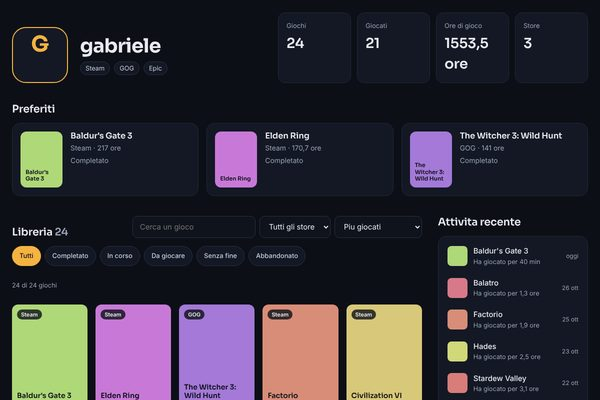
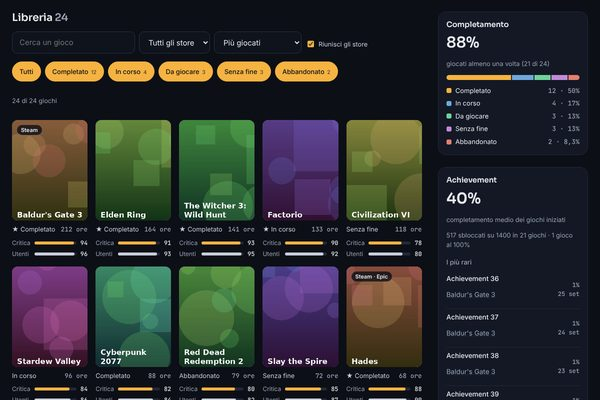
Portfolio: Playshelf aggiornato e Legacy Games Buyout
Playshelf: sincronizzazione nei due sensi, schede, achievement, statistiche,
giochi riuniti fra store e sei lingue; screenshot nuovi. Legacy Games Buyout
con il link al repository su GitHub. Chi sono cita anche Playshelf.

Claude-Session: https://claude.ai/code/session_018F9roNCEfMkSjq1C8nK1uA

diff --git a/src/progetti/de/26-playshelf.md b/src/progetti/de/26-playshelf.md
@@ -12,6 +12,7 @@ images:
 - img/portfolio/full/playshelf/2.jpg
 - img/portfolio/full/playshelf/3.jpg
 - img/portfolio/full/playshelf/4.jpg
+- img/portfolio/full/playshelf/5.jpg
 technologies:
 - TypeScript
 - NestJS, Fastify
@@ -21,8 +22,8 @@ technologies:
 - Docker, GitHub Actions
 ---
 
-Playshelf ist ein Dienst für Nutzer von Playnite, dem Programm, das die Spiele von Steam, GOG, Epic und den anderen Stores in einer einzigen Bibliothek zusammenführt. Ein Plugin, auf jedem PC installiert, schickt die Bibliothek und die gespielten Partien an einen Server, und eine Website zeigt sie gemeinsam an: alle Spiele, aus jedem Store und von jedem Rechner, an einem Ort.
+Playshelf ist ein Dienst für Nutzer von Playnite, dem Programm, das die Spiele von Steam, GOG, Epic und den anderen Stores in einer einzigen Bibliothek zusammenführt. Ein Plugin, auf jedem PC installiert, hält die Bibliothek über einen Server in beide Richtungen synchron: Bewertungen, Status, Kategorien und Tags, die auf einem Rechner geändert werden, kommen Feld für Feld auf den anderen an, mit einer Vorschau und einer Sicherung vor der ersten Synchronisierung. Die Spielzeit wird Sitzung für Sitzung erfasst, so addieren sich die Stunden von zwei PCs, ohne doppelt gezählt zu werden.
 
-Jeder Nutzer hat ein öffentliches Profil im Stil von Steam, mit Lieblingsspielen, einer durchsuchbaren Bibliothek mit Filtern nach Status (abgeschlossen, wird gespielt, noch zu spielen...), Spielzeit, letzten Aktivitäten und Statistiken nach Store, Genre und Plattform. Das Profil kann öffentlich, nur über den Link sichtbar oder privat sein. Ein PC wird mit einem 8-stelligen Code, der auf der Website bestätigt wird, mit dem Konto verbunden, ohne dass das Passwort je im Plugin eingegeben wird, und jede Verbindung lässt sich widerrufen.
+Jeder Nutzer hat außerdem ein öffentliches Profil im Stil von Steam: Cover, Lieblingsspiele, eine durchsuchbare Bibliothek mit Filtern nach Status, letzte Aktivitäten und für jedes Spiel eine Seite mit Beschreibung, Entwickler, Kritikerwertungen und freigeschalteten Erfolgen (aus der Erweiterung Playnite Achievements). Dasselbe Spiel in mehreren Stores wird zu einem einzigen Eintrag. Eine Statistikseite zeigt, wohin die Stunden gehen, den Fortschritt, die Bewertungen, die seltensten Erfolge und den Verlauf über die Zeit. Das Profil kann öffentlich, nur über den Link sichtbar oder privat sein; ein PC wird mit einem 8-stelligen Code mit dem Konto verbunden, ohne dass das Passwort je im Plugin eingegeben wird.
 
-Der Server speichert die Spielsitzungen einzeln, so addieren sich die Stunden von zwei PCs, ohne doppelt gezählt zu werden. Das Plugin ist eine C#-Erweiterung für Playnite; Server und Website sind in TypeScript geschrieben und laufen in Docker auf einem ARM-Cloud-Server, mit PostgreSQL. Playshelf ist in Entwicklung und als Beta nur auf Einladung unter <a href="https://playshelf.gabrielepucciarelli.com" target="_blank">playshelf.gabrielepucciarelli.com</a> erreichbar.
+Website, Server und Plugin gibt es in sechs Sprachen (Italienisch, Englisch, Spanisch, Französisch, Deutsch und brasilianisches Portugiesisch). Das Plugin ist eine C#-Erweiterung für Playnite; Server und Website sind in TypeScript geschrieben und laufen in Docker auf einem ARM-Cloud-Server, mit PostgreSQL. Playshelf ist als Beta nur auf Einladung unter <a href="https://playshelf.gabrielepucciarelli.com" target="_blank">playshelf.gabrielepucciarelli.com</a> erreichbar.

diff --git a/src/progetti/fr/26-playshelf.md b/src/progetti/fr/26-playshelf.md
@@ -12,6 +12,7 @@ images:
 - img/portfolio/full/playshelf/2.jpg
 - img/portfolio/full/playshelf/3.jpg
 - img/portfolio/full/playshelf/4.jpg
+- img/portfolio/full/playshelf/5.jpg
 technologies:
 - TypeScript
 - NestJS, Fastify
@@ -21,8 +22,8 @@ technologies:
 - Docker, GitHub Actions
 ---
 
-Playshelf est un service pour les utilisateurs de Playnite, le programme qui réunit dans une seule bibliothèque les jeux de Steam, GOG, Epic et des autres boutiques. Un plugin, installé sur chaque PC, envoie la bibliothèque et les parties à un serveur, et un site les affiche ensemble : tous vos jeux, de n'importe quelle boutique et de n'importe quel ordinateur, au même endroit.
+Playshelf est un service pour les utilisateurs de Playnite, le programme qui réunit dans une seule bibliothèque les jeux de Steam, GOG, Epic et des autres boutiques. Un plugin, installé sur chaque PC, garde la bibliothèque synchronisée dans les deux sens grâce à un serveur : les notes, statuts, catégories et tags modifiés sur un ordinateur arrivent sur les autres, champ par champ, avec un aperçu et une sauvegarde avant la première synchronisation. Le temps de jeu est enregistré session par session : les heures de deux PC s'additionnent sans être comptées deux fois.
 
-Chaque utilisateur a un profil public à la Steam, avec ses jeux favoris, une bibliothèque qu'on peut rechercher et filtrer par statut (terminé, en cours, à jouer...), le temps de jeu, l'activité récente et des statistiques par boutique, genre et plateforme. Le profil peut être public, visible seulement par ceux qui ont le lien, ou privé. Un PC se relie au compte avec un code de 8 caractères confirmé sur le site, sans jamais saisir le mot de passe dans le plugin, et chaque liaison peut être révoquée.
+Chaque utilisateur dispose aussi d'un profil public à la Steam : jaquettes, jeux favoris, bibliothèque qu'on peut rechercher et filtrer par statut, activité récente et, pour chaque jeu, une fiche avec description, développeur, notes de la critique et succès débloqués (lus depuis l'extension Playnite Achievements). Un même jeu possédé sur plusieurs boutiques devient une seule fiche. Une page de statistiques montre où vont les heures, la progression, les notes, les succès les plus rares et l'évolution dans le temps. Le profil peut être public, visible seulement par ceux qui ont le lien, ou privé ; un PC se relie au compte avec un code de 8 caractères, sans jamais saisir le mot de passe dans le plugin.
 
-Le serveur enregistre les sessions de jeu une par une : les heures de deux PC s'additionnent sans être comptées deux fois. Le plugin est une extension C# pour Playnite ; le serveur et le site sont écrits en TypeScript et tournent dans Docker sur un serveur cloud ARM, avec PostgreSQL. Il est en développement et en bêta sur invitation sur <a href="https://playshelf.gabrielepucciarelli.com" target="_blank">playshelf.gabrielepucciarelli.com</a>.
+Le site, le serveur et le plugin sont disponibles en six langues (italien, anglais, espagnol, français, allemand et portugais du Brésil). Le plugin est une extension C# pour Playnite ; le serveur et le site sont écrits en TypeScript et tournent dans Docker sur un serveur cloud ARM, avec PostgreSQL. Il est en bêta sur invitation sur <a href="https://playshelf.gabrielepucciarelli.com" target="_blank">playshelf.gabrielepucciarelli.com</a>.

diff --git a/src/progetti/es/26-playshelf.md b/src/progetti/es/26-playshelf.md
@@ -12,6 +12,7 @@ images:
 - img/portfolio/full/playshelf/2.jpg
 - img/portfolio/full/playshelf/3.jpg
 - img/portfolio/full/playshelf/4.jpg
+- img/portfolio/full/playshelf/5.jpg
 technologies:
 - TypeScript
 - NestJS, Fastify
@@ -21,8 +22,8 @@ technologies:
 - Docker, GitHub Actions
 ---
 
-Playshelf es un servicio para quien usa Playnite, el programa que reúne en una sola biblioteca los juegos de Steam, GOG, Epic y las demás tiendas. Un plugin, instalado en cada PC, envía la biblioteca y las partidas a un servidor, y una web las muestra juntas: todos los juegos, de cualquier tienda y de cualquier ordenador, en un solo lugar.
+Playshelf es un servicio para quien usa Playnite, el programa que reúne en una sola biblioteca los juegos de Steam, GOG, Epic y las demás tiendas. Un plugin, instalado en cada PC, mantiene la biblioteca sincronizada en ambas direcciones a través de un servidor: puntuaciones, estados, categorías y etiquetas cambiados en un ordenador llegan a los demás, campo a campo, con una vista previa y una copia de seguridad antes de la primera sincronización. Las horas de juego se registran sesión a sesión, así que las de dos PC se suman sin contarse dos veces.
 
-Cada usuario tiene un perfil público al estilo de Steam, con los juegos favoritos, la biblioteca con buscador y filtros por estado (completado, en curso, pendiente...), las horas de juego, la actividad reciente y las estadísticas por tienda, género y plataforma. El perfil puede ser público, visible solo para quien tenga el enlace, o privado. El PC se vincula a la cuenta con un código de 8 caracteres que se confirma en la web, sin escribir nunca la contraseña en el plugin, y cada vinculación se puede revocar.
+Cada usuario tiene además un perfil público al estilo de Steam: portadas, juegos favoritos, biblioteca con buscador y filtros por estado, actividad reciente y, para cada juego, una ficha con descripción, desarrollador, notas de la crítica y logros desbloqueados (leídos de la extensión Playnite Achievements). El mismo juego comprado en varias tiendas se convierte en una sola ficha. Una página de estadísticas muestra a dónde van las horas, el porcentaje completado, las puntuaciones, los logros más raros y la evolución en el tiempo. El perfil puede ser público, visible solo para quien tenga el enlace, o privado; el PC se vincula a la cuenta con un código de 8 caracteres, sin escribir nunca la contraseña en el plugin.
 
-El servidor registra las sesiones de juego una a una, así que las horas de dos PC se suman sin contarse dos veces. El plugin es una extensión en C# para Playnite; el servidor y la web están en TypeScript y funcionan en Docker en un servidor cloud ARM, con PostgreSQL. Está en desarrollo y en beta por invitación en <a href="https://playshelf.gabrielepucciarelli.com" target="_blank">playshelf.gabrielepucciarelli.com</a>.
+La web, el servidor y el plugin están en seis idiomas (italiano, inglés, español, francés, alemán y portugués de Brasil). El plugin es una extensión en C# para Playnite; el servidor y la web están en TypeScript y funcionan en Docker en un servidor cloud ARM, con PostgreSQL. Está en beta por invitación en <a href="https://playshelf.gabrielepucciarelli.com" target="_blank">playshelf.gabrielepucciarelli.com</a>.

diff --git a/src/progetti/en/26-playshelf.md b/src/progetti/en/26-playshelf.md
@@ -12,6 +12,7 @@ images:
 - img/portfolio/full/playshelf/2.jpg
 - img/portfolio/full/playshelf/3.jpg
 - img/portfolio/full/playshelf/4.jpg
+- img/portfolio/full/playshelf/5.jpg
 technologies:
 - TypeScript
 - NestJS, Fastify
@@ -21,8 +22,8 @@ technologies:
 - Docker, GitHub Actions
 ---
 
-Playshelf is a service for Playnite users, Playnite being the program that brings games from Steam, GOG, Epic and the other stores together in a single library. A plugin, installed on every PC, sends the library and play sessions to a server, and a website shows them together: all your games, from any store and any computer, in one place.
+Playshelf is a service for Playnite users, Playnite being the program that brings games from Steam, GOG, Epic and the other stores together in a single library. A plugin, installed on every PC, keeps the library in sync in both directions through a server: ratings, statuses, categories and tags changed on one computer reach the others, field by field, with a preview and a backup before the first sync. Playtime is recorded session by session, so the hours from two PCs add up without being counted twice.
 
-Each user has a Steam-style public profile, with their favourite games, a library you can search and filter by status (completed, playing, plan to play...), playtime, recent activity and statistics by store, genre and platform. The profile can be public, visible only to people with the link, or private. A PC is linked to an account with an 8-character code confirmed on the website, without ever typing the password into the plugin, and every link can be revoked.
+Each user also gets a Steam-style public profile: covers, favourite games, a library you can search and filter by status, recent activity and, for every game, a page with description, developer, critic scores and unlocked achievements (read from the Playnite Achievements extension). The same game owned on several stores becomes a single entry. A statistics page shows where the hours go, completion, ratings, the rarest achievements and trends over time. The profile can be public, visible only to people with the link, or private; a PC is linked to the account with an 8-character code, without ever typing the password into the plugin.
 
-The server records play sessions one by one, so the hours from two PCs add up without being counted twice. The plugin is a C# extension for Playnite; the server and the website are written in TypeScript and run in Docker on an ARM cloud server, with PostgreSQL. It's in development and in invite-only beta at <a href="https://playshelf.gabrielepucciarelli.com" target="_blank">playshelf.gabrielepucciarelli.com</a>.
+The website, the server and the plugin are available in six languages (Italian, English, Spanish, French, German and Brazilian Portuguese). The plugin is a C# extension for Playnite; the server and the website are written in TypeScript and run in Docker on an ARM cloud server, with PostgreSQL. It's in invite-only beta at <a href="https://playshelf.gabrielepucciarelli.com" target="_blank">playshelf.gabrielepucciarelli.com</a>.

diff --git a/src/progetti/it/26-playshelf.md b/src/progetti/it/26-playshelf.md
@@ -12,6 +12,7 @@ images:
 - img/portfolio/full/playshelf/2.jpg
 - img/portfolio/full/playshelf/3.jpg
 - img/portfolio/full/playshelf/4.jpg
+- img/portfolio/full/playshelf/5.jpg
 technologies:
 - TypeScript
 - NestJS, Fastify
@@ -21,8 +22,8 @@ technologies:
 - Docker, GitHub Actions
 ---
 
-Playshelf è un servizio per chi usa Playnite, il programma che riunisce in un'unica libreria i giochi di Steam, GOG, Epic e degli altri store. Un plugin, installato su ogni PC, manda la libreria e le partite a un server, e un sito le mostra insieme: tutti i giochi, da qualunque store e da qualunque computer, in un solo posto.
+Playshelf è un servizio per chi usa Playnite, il programma che riunisce in un'unica libreria i giochi di Steam, GOG, Epic e degli altri store. Un plugin, installato su ogni PC, tiene la libreria sincronizzata in entrambe le direzioni attraverso un server: voti, stati, categorie e tag cambiati su un computer arrivano sugli altri, campo per campo, con un'anteprima e un backup prima della prima sincronizzazione. Le ore di gioco si registrano sessione per sessione, così quelle di due PC si sommano senza contarle due volte.
 
-Ogni utente ha un profilo pubblico in stile Steam, con i giochi preferiti, la libreria cercabile e filtrabile per stato (completato, in corso, da giocare...), le ore di gioco, l'attività recente e le statistiche per store, genere e piattaforma. Il profilo può essere pubblico, visibile solo a chi ha il link, o privato. Il PC si collega al proprio account con un codice di 8 caratteri confermato sul sito, senza mai scrivere la password nel plugin, e ogni collegamento si può revocare.
+Ogni utente ha poi un profilo pubblico in stile Steam: copertine, giochi preferiti, libreria cercabile e filtrabile per stato, attività recente e, per ogni gioco, una scheda con descrizione, sviluppatore, voti della critica e achievement sbloccati (letti dall'estensione Playnite Achievements). Lo stesso gioco posseduto su più store diventa una scheda sola. Una pagina di statistiche mostra dove vanno le ore, il completamento, i voti, gli achievement più rari e l'andamento nel tempo. Il profilo può essere pubblico, visibile solo a chi ha il link, o privato; il PC si collega all'account con un codice di 8 caratteri, senza mai scrivere la password nel plugin.
 
-Il server registra le sessioni di gioco una per una, così le ore di due PC si sommano senza contarle due volte. Il plugin è un'estensione C# per Playnite; il server e il sito sono in TypeScript e girano in Docker su un server cloud ARM, con PostgreSQL. È in sviluppo e in beta a inviti su <a href="https://playshelf.gabrielepucciarelli.com" target="_blank">playshelf.gabrielepucciarelli.com</a>.
+Sito, server e plugin sono in sei lingue (italiano, inglese, spagnolo, francese, tedesco e portoghese brasiliano). Il plugin è un'estensione C# per Playnite; il server e il sito sono in TypeScript e girano in Docker su un server cloud ARM, con PostgreSQL. È in beta a inviti su <a href="https://playshelf.gabrielepucciarelli.com" target="_blank">playshelf.gabrielepucciarelli.com</a>.

diff --git a/src/progetti/fr/27-legacy-games-buyout.md b/src/progetti/fr/27-legacy-games-buyout.md
@@ -1,0 +1,22 @@
+---
+title: Legacy Games Buyout
+name: Legacy Games Buyout
+category: Projet
+group: code
+thumbnail: img/portfolio/legacy-games-buyout.jpg
+order: 27
+date_label: octobre 2026
+author: Gabriele Pucciarelli
+images:
+- img/portfolio/full/legacygames/1.jpg
+technologies:
+- PowerShell
+- Extension Playnite
+- API REST
+---
+
+Legacy Games ferme le 28 février 2027 : à partir de ce jour, le launcher, le site et le plugin Playnite pour cette bibliothèque cesseront de fonctionner, et les jeux offerts au fil des années (par exemple avec Prime Gaming) risquent de disparaître. Legacy Games Buyout est une extension pour Playnite qui les met à l'abri avant.
+
+Une commande télécharge dans le dossier de votre choix les installateurs de tous les jeux du compte, offerts et achetés, avec la barre de progression de Playnite ; les téléchargements interrompus reprennent là où ils s'étaient arrêtés. Une autre convertit les jeux de la bibliothèque Legacy Games en jeux manuels Playnite ordinaires : ils restent la même entrée, donc le temps de jeu, les succès, les jaquettes, les tags et les catégories sont conservés, et chacun reçoit une action pour lancer son installateur et, une fois installé, une pour jouer. Avant de modifier quoi que ce soit, elle montre un aperçu de ce qui arrivera à chaque jeu.
+
+Tout se passe dans Playnite, sans le launcher ; il y a aussi un script PowerShell en ligne de commande qui fait le même téléchargement et peut installer les jeux en mode silencieux. Pour le réaliser, j'ai étudié comment le launcher communique avec le serveur de Legacy Games et comment se comportent ses installateurs. Le code est sur <a href="https://github.com/gpuccio87/legacy-games-buyout" target="_blank">GitHub</a>, sous licence MIT.

diff --git a/src/progetti/es/27-legacy-games-buyout.md b/src/progetti/es/27-legacy-games-buyout.md
@@ -1,0 +1,22 @@
+---
+title: Legacy Games Buyout
+name: Legacy Games Buyout
+category: Proyecto
+group: code
+thumbnail: img/portfolio/legacy-games-buyout.jpg
+order: 27
+date_label: octubre de 2026
+author: Gabriele Pucciarelli
+images:
+- img/portfolio/full/legacygames/1.jpg
+technologies:
+- PowerShell
+- Extensión de Playnite
+- API REST
+---
+
+Legacy Games cierra el 28 de febrero de 2027: desde ese día el launcher, la web y el plugin de Playnite para esa biblioteca dejarán de funcionar, y los juegos regalados a lo largo de los años (por ejemplo con Prime Gaming) pueden perderse. Legacy Games Buyout es una extensión para Playnite que los pone a salvo antes.
+
+Con un comando descarga en la carpeta que elijas los instaladores de todos los juegos de la cuenta, regalos y compras, con la barra de progreso de Playnite; las descargas interrumpidas se reanudan donde se quedaron. Con otro convierte los juegos de la biblioteca Legacy Games en juegos manuales normales de Playnite: siguen siendo la misma entrada, así que las horas de juego, los logros, las portadas, las etiquetas y las categorías no se pierden, y cada uno recibe la acción para abrir su instalador y, una vez instalado, la de jugar. Antes de cambiar nada muestra una vista previa de lo que pasará con cada juego.
+
+Todo funciona dentro de Playnite, sin el launcher; también hay un script de PowerShell para la línea de comandos que hace la misma descarga y puede instalar los juegos en modo silencioso. Para hacerlo estudié cómo el launcher se comunica con el servidor de Legacy Games y cómo se comportan sus instaladores. El código está en <a href="https://github.com/gpuccio87/legacy-games-buyout" target="_blank">GitHub</a>, con licencia MIT.

diff --git a/src/progetti/de/27-legacy-games-buyout.md b/src/progetti/de/27-legacy-games-buyout.md
@@ -1,0 +1,22 @@
+---
+title: Legacy Games Buyout
+name: Legacy Games Buyout
+category: Projekt
+group: code
+thumbnail: img/portfolio/legacy-games-buyout.jpg
+order: 27
+date_label: Oktober 2026
+author: Gabriele Pucciarelli
+images:
+- img/portfolio/full/legacygames/1.jpg
+technologies:
+- PowerShell
+- Playnite-Erweiterung
+- API REST
+---
+
+Legacy Games schließt am 28. Februar 2027: Ab diesem Tag funktionieren der Launcher, die Website und das Playnite-Plugin für diese Bibliothek nicht mehr, und die über die Jahre verschenkten Spiele (zum Beispiel über Prime Gaming) könnten verloren gehen. Legacy Games Buyout ist eine Erweiterung für Playnite, die sie vorher in Sicherheit bringt.
+
+Ein Befehl lädt die Installer aller Spiele des Kontos, geschenkte und gekaufte, in einen Ordner deiner Wahl, mit dem Fortschrittsbalken von Playnite; abgebrochene Downloads werden fortgesetzt. Ein anderer wandelt die Spiele der Legacy-Games-Bibliothek in normale manuelle Playnite-Spiele um: Sie bleiben derselbe Eintrag, so gehen Spielzeit, Erfolge, Cover, Tags und Kategorien nicht verloren, und jedes Spiel bekommt eine Aktion zum Starten des Installers und, sobald installiert, eine zum Spielen. Bevor sich etwas ändert, zeigt sie eine Vorschau dessen, was mit jedem Spiel passiert.
+
+Alles läuft in Playnite, ohne Launcher; dazu gibt es ein PowerShell-Skript für die Kommandozeile, das denselben Download erledigt und die Spiele still installieren kann. Dafür habe ich untersucht, wie der Launcher mit dem Server von Legacy Games spricht und wie sich seine Installer verhalten. Der Code liegt auf <a href="https://github.com/gpuccio87/legacy-games-buyout" target="_blank">GitHub</a>, unter MIT-Lizenz.

diff --git a/src/progetti/it/27-legacy-games-buyout.md b/src/progetti/it/27-legacy-games-buyout.md
@@ -1,0 +1,22 @@
+---
+title: Legacy Games Buyout
+name: Legacy Games Buyout
+category: Progetto
+group: code
+thumbnail: img/portfolio/legacy-games-buyout.jpg
+order: 27
+date_label: ottobre, 2026
+author: Gabriele Pucciarelli
+images:
+- img/portfolio/full/legacygames/1.jpg
+technologies:
+- PowerShell
+- Estensione Playnite
+- API REST
+---
+
+Legacy Games chiude il 28 febbraio 2027: da quel giorno launcher, sito e plugin di Playnite per quella libreria smetteranno di funzionare, e i giochi regalati negli anni (per esempio con Prime Gaming) rischiano di sparire. Legacy Games Buyout è un'estensione per Playnite che li mette in salvo prima.
+
+Con un comando scarica in una cartella a scelta gli installer di tutti i giochi dell'account, regali e acquisti, con la barra di avanzamento di Playnite; i download interrotti riprendono da dove si erano fermati. Con un altro converte i giochi della libreria Legacy Games in normali giochi manuali di Playnite: restano la stessa voce, quindi ore di gioco, achievement, copertine, tag e categorie non si perdono, e ognuno riceve l'azione per avviare l'installer e, se installato, quella per giocare. Prima di cambiare qualcosa mostra un'anteprima di cosa succederà a ogni gioco.
+
+Funziona tutto dentro Playnite, senza il launcher; c'è anche uno script PowerShell da riga di comando che fa lo stesso download e può installare i giochi in modo silenzioso. Per farlo ho studiato come il launcher parla con il server di Legacy Games e come si comportano i suoi installer. Il codice è su <a href="https://github.com/gpuccio87/legacy-games-buyout" target="_blank">GitHub</a>, con licenza MIT.

diff --git a/src/progetti/en/27-legacy-games-buyout.md b/src/progetti/en/27-legacy-games-buyout.md
@@ -1,0 +1,22 @@
+---
+title: Legacy Games Buyout
+name: Legacy Games Buyout
+category: Project
+group: code
+thumbnail: img/portfolio/legacy-games-buyout.jpg
+order: 27
+date_label: October 2026
+author: Gabriele Pucciarelli
+images:
+- img/portfolio/full/legacygames/1.jpg
+technologies:
+- PowerShell
+- Playnite extension
+- API REST
+---
+
+Legacy Games is shutting down on February 28, 2027: from that day the launcher, the website and the Playnite library plugin will stop working, and the games given away over the years (for example with Prime Gaming) could be lost. Legacy Games Buyout is a Playnite extension that saves them first.
+
+One command downloads the installers of every game on the account, giveaways and purchases, into a folder of your choice, with Playnite's progress bar; interrupted downloads resume where they stopped. Another converts the games of the Legacy Games library into regular manual Playnite games: they stay the same entry, so playtime, achievements, covers, tags and categories are kept, and each one gets an action to run its installer and, once installed, one to play. Before changing anything it shows a preview of what will happen to every game.
+
+Everything runs inside Playnite, with no launcher; there's also a command-line PowerShell script that does the same download and can install the games silently. To build it I studied how the launcher talks to the Legacy Games server and how its installers behave. The code is on <a href="https://github.com/gpuccio87/legacy-games-buyout" target="_blank">GitHub</a>, under the MIT license.
